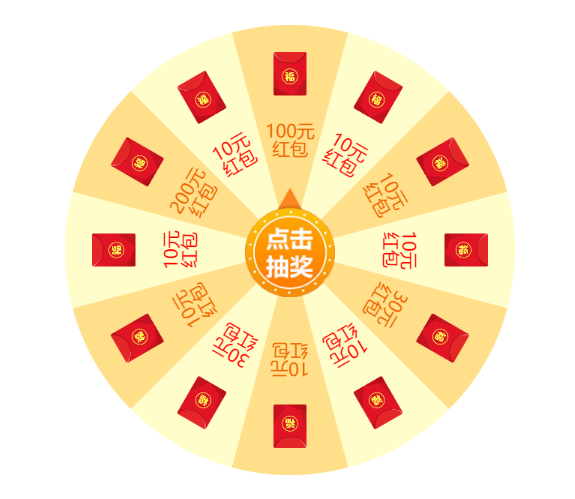
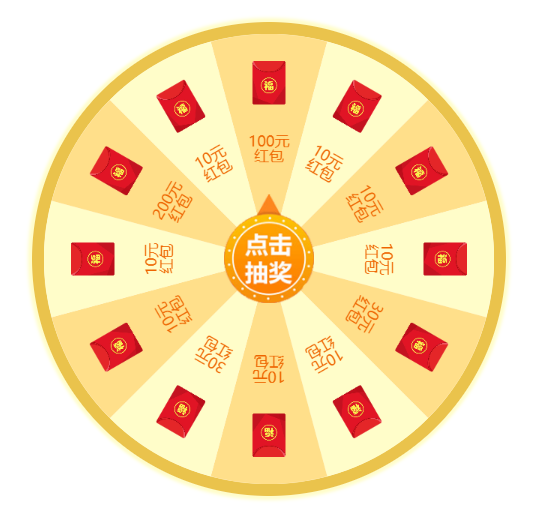
add

diff --git a/Lottery.js b/Lottery.js
@@ -326,16 +326,16 @@ Lottery.prototype = {
             duration: 3000,
             /*字体位置与样式*/
             /*画布显示缩放比例,值为1 安卓模糊*/
-            scale: this.ua.isIos ? 1 : 2,
+            scale: this.ua.isIos ? 2 : 2,
             /*字体样式,浅拷贝 需整个font对象传入*/
             font: {
                 y: '50%',
-                //color: '#ee6500',
+                color: '#ee6500',
                 /*循环填充字体颜色*/
-                color: ['#ee6500', '#f00'],
+                //color: ['#f00', '#ee6500'],
                 style: 'normal',
                 weight: 500,
-                size: '12px',
+                size: '10px',
                 lineHeight: 1,
                 family: 'Arail'
             },

diff --git a/index.html b/index.html
@@ -15,8 +15,13 @@
 	display: block;
 	margin: 20px auto;
 	width: 300px;
+    border: 8px solid #eac34c;
+    border-radius: 50%;
+    box-shadow: 3px 0 3px #fffdc9, 0px 3px 3px #fffdc9, -3px 0 3px #fffdc9, 0px -3px 3px #fffdc9;
 }
-
+canvas{
+    display: block;
+}
 
 #lottery-handler{
     position: absolute;

diff --git a/README.md b/README.md
@@ -2,7 +2,7 @@
 #html5移动端大转盘抽奖插件, 简单、易用、无依赖。
 
 <p align="center">
-    <img width="360px" src="https://raw.githubusercontent.com/hishion/Lottery/master/images/preview.png">
+    <img width="240px" src="https://raw.githubusercontent.com/hishion/Lottery/master/images/preview.png">
 </p>
 ##step 1: 引入资源
 
